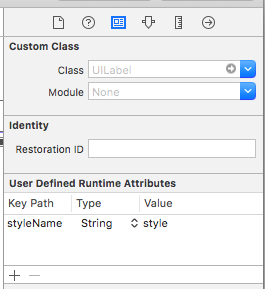
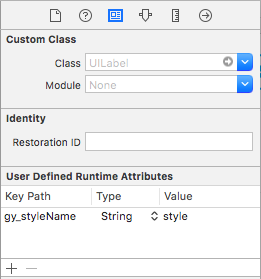
fix readme error

Changed region(s): [[0.0, 0.0, 1.0, 1.0], [0.5211, 0.6882, 0.7356, 0.7168]]

diff --git a/README.md b/README.md
@@ -88,7 +88,7 @@ When you use the **Default** flavour, a new property appears in the attribute in
 
 ![](https://github.com/ManueGE/Goya/blob/master/readme_imgs/goya_inspector.png?raw=true)
 
-If are using the **Lite** flavour or your version of Xcode doesn't supoort **IBInspectables** you can achieve the same result by addign a new attribute in the **User defined runtime attributes** section. The name must be **styleName**, the type must be **String** and the Value must be the key of your registered style:
+If are using the **Lite** flavour or your version of Xcode doesn't supoort **IBInspectables** you can achieve the same result by addign a new attribute in the **User defined runtime attributes** section. The name must be **gy_styleName**, the type must be **String** and the Value must be the key of your registered style:
 
 ![](https://github.com/ManueGE/Goya/blob/master/readme_imgs/goya_manually.png?raw=true)
 
